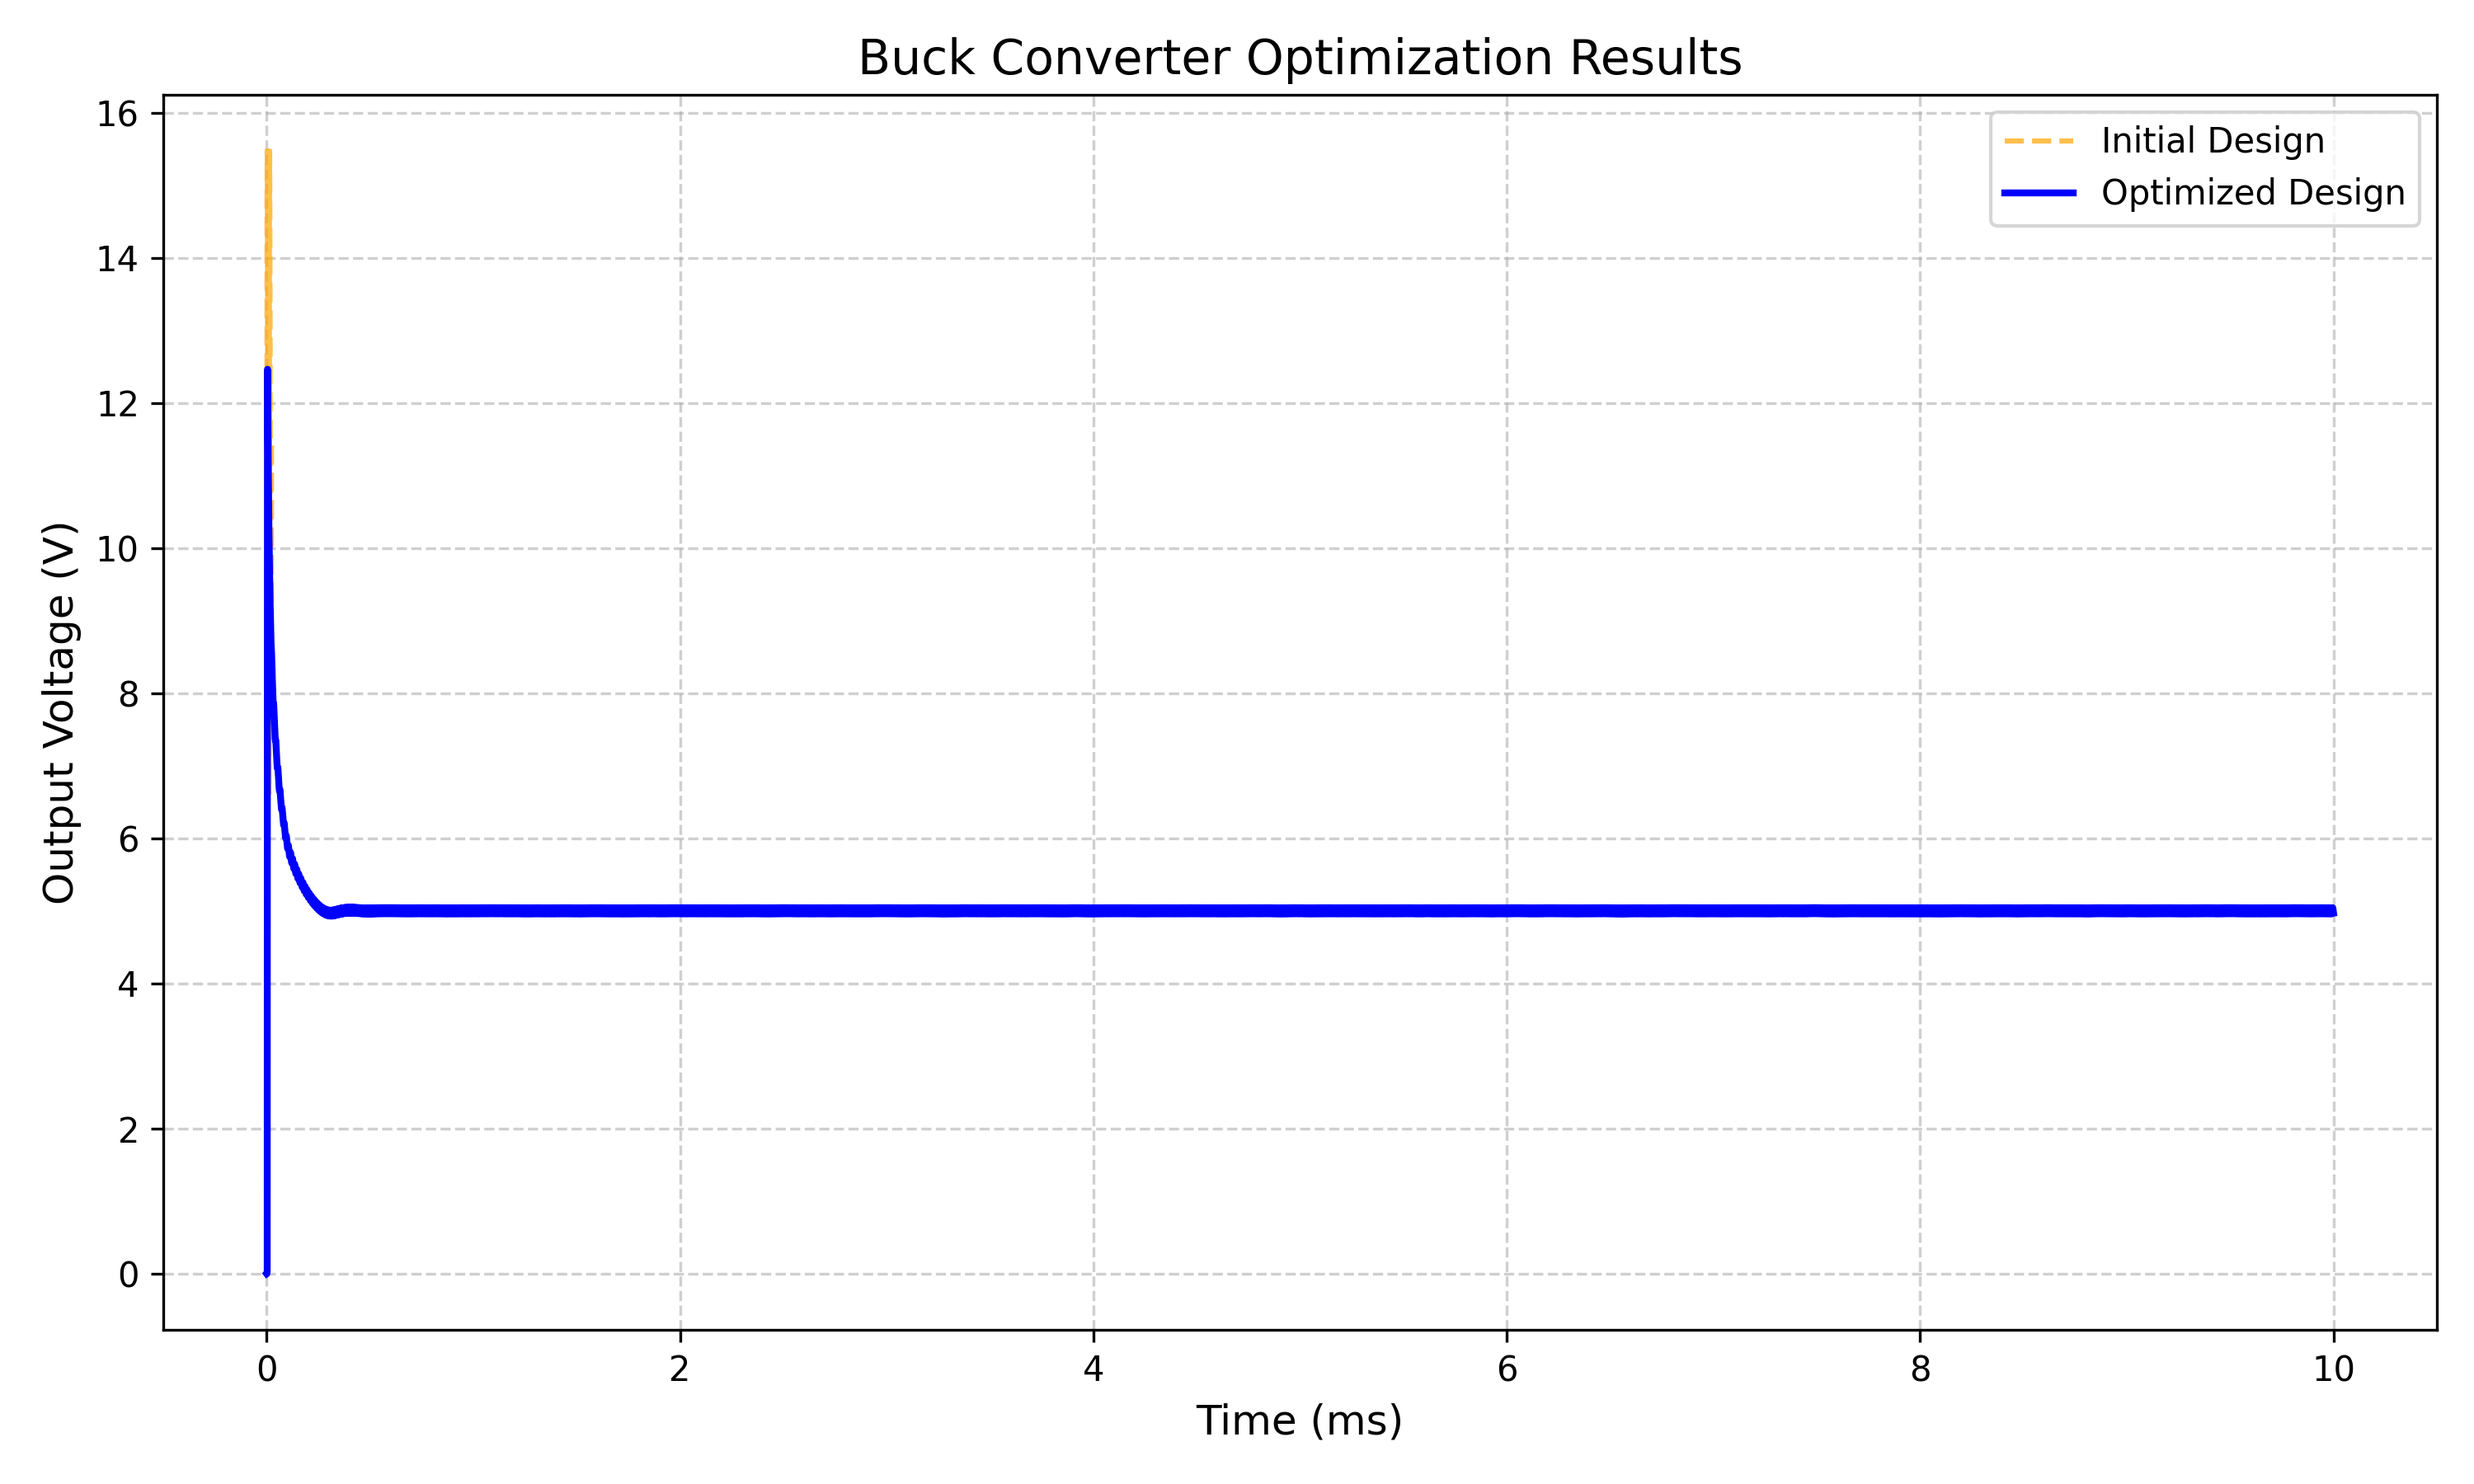
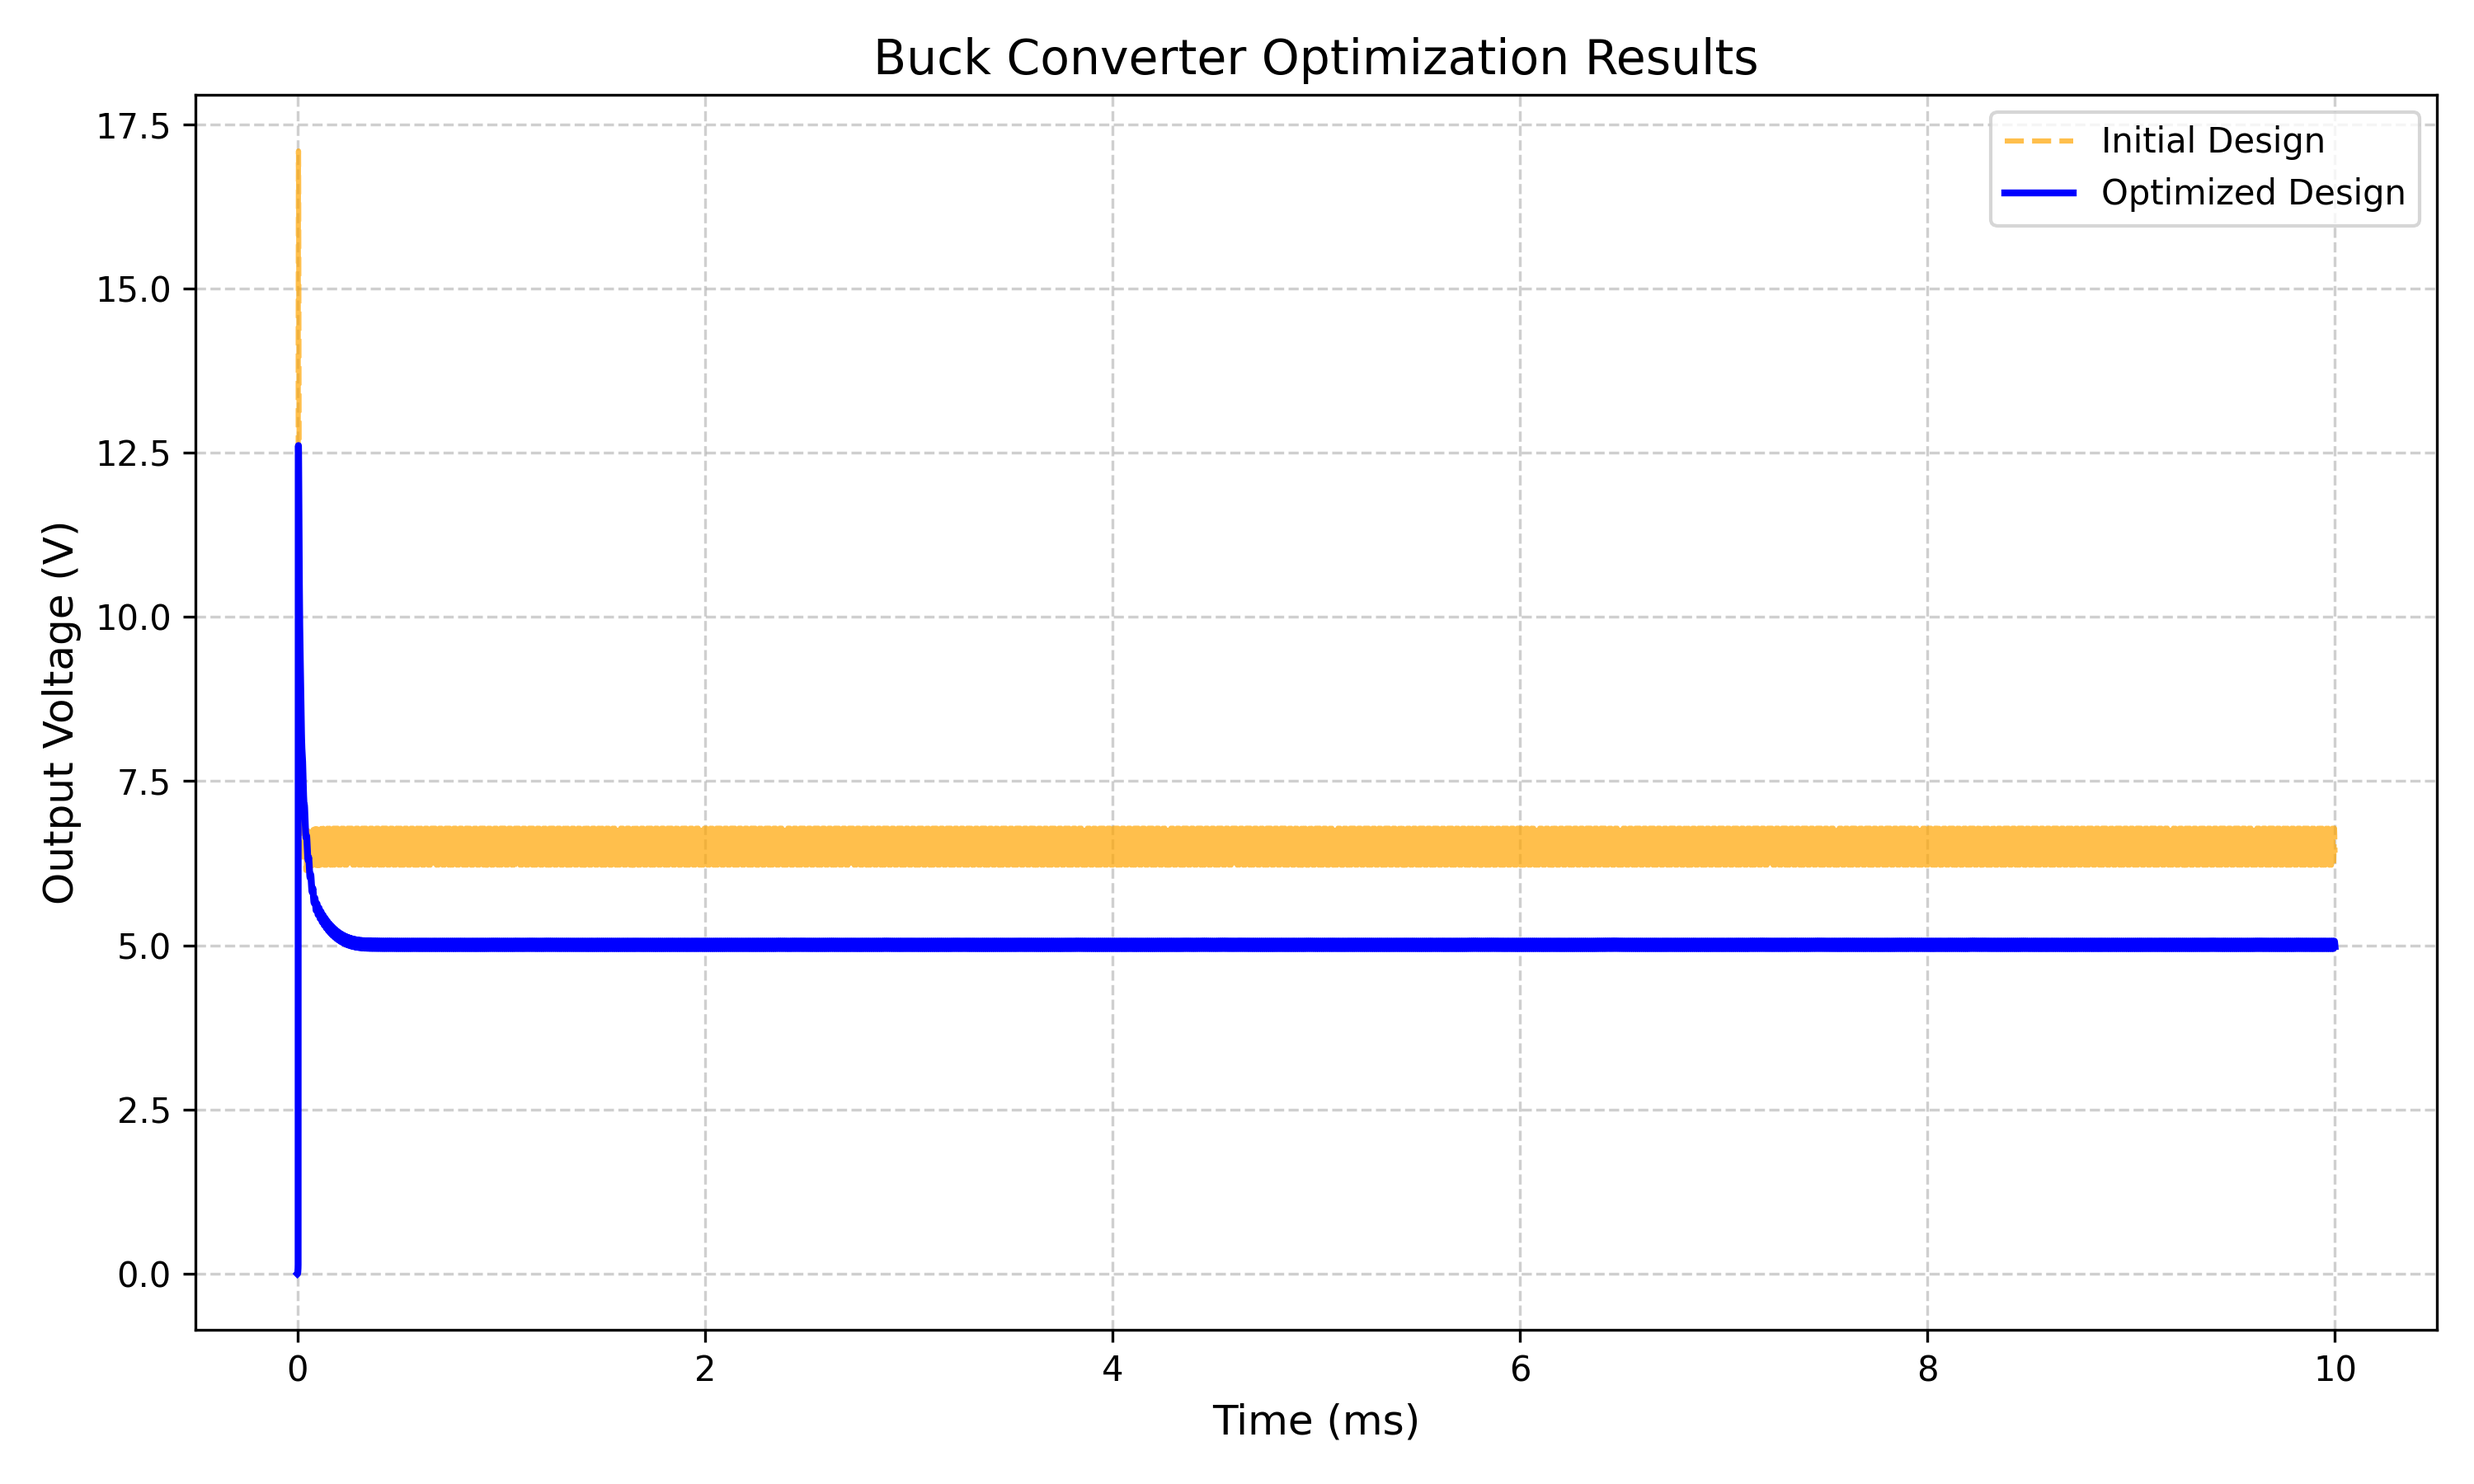
langraph, very bad plot

diff --git a/PowerAgent/experiment_results/agent_memory.md b/PowerAgent/experiment_results/agent_memory.md
@@ -15,11 +15,11 @@ Current Circuit Configuration (Buck_converter_real_sim.net):
 - L1: Flux={L_nom}*{I_sat}*tanh(x/{I_sat})
 - M1: IRF1404
 - Rload: 6
-- Vsw: PULSE(0 10 0 1n 1n 7u 10u)
+- Vsw: PULSE(0 10 0 1n 1n 5u 10u)
 - Cout: Cout out 0 Q={C_min}*x + ({C_nom}-{C_min})*{V_coeff}*tanh(x/{V_coeff})
 
 Parameters:
-.param C_nom= 3u C_min= 1u V_coeff= 5 L_nom= 4u I_sat= 3
+.param C_nom= 20u C_min= 1u V_coeff= 5 L_nom= 14u I_sat= 3
 
 
 **Agent Thought (Iter 1):**
@@ -27,160 +27,123 @@ Parameters:
 
 **Tool Call (simulate_circuit):** Starting simulation...
 
+**Tool Call (simulate_circuit):** Simulation completed.
+
 **Agent Thought (Iter 2):**
-The simulation ended prematurely, indicating a convergence issue. This can occur due to non-linearities or inappropriate initial conditions in the circuit. Let's address this by adjusting the duty cycle and component values to stabilize the circuit and achieve the desired output.
 
-### Current Observations:
-- **Duty Cycle (D)**: Currently set by `Vsw = PULSE(0 10 0 1n 1n 7u 10u)`, which implies `D = 0.7`.
-- **Target Duty Cycle for 5V Output**: \( D = \frac{5}{12} \approx 0.417 \).
 
-### Plan:
-1. **Adjust Duty Cycle**: Modify `Ton` in the `PULSE` to achieve a duty cycle of approximately 0.417.
-2. **Adjust L1 and Cout**: Increase these values to improve stability and reduce ripple.
+**Tool Call (calculate_metrics):**
+Simulation Metrics:
+{'v_mean': 6.5044050216674805, 'ripple_pp': 0.5649032592773438, 'ripple_percent': 8.684933930635452, 'max_voltage': 6.784877777099609, 'min_voltage': 6.219974517822266}
 
-Let's start by updating the duty cycle and component values. I'll set `Ton` to 4.17u (for D = 0.417) and increase `L1` and `Cout` slightly to enhance stability and reduce ripple. Then, we'll re-run the simulation.
+**Agent Thought (Iter 3):**
+### Baseline Simulation Results:
+- **Mean Output Voltage (V_mean):** 6.50V
+- **Output Ripple (Peak-to-Peak):** 0.5649V
+- **Output Ripple (%):** 8.68%
+
+### Observations:
+- The mean output voltage is significantly higher than the target of 5V.
+- The output ripple is much larger than the desired <0.05V.
+
+### Next Steps:
+1. **Adjust Duty Cycle (D):** 
+   - Current Duty Cycle (D) is approximately 0.5 (Ton = 5u, Tperiod = 10u).
+   - Target Duty Cycle for 5V output: \( D = \frac{5}{12} \approx 0.417 \).
+   - Adjust Ton to achieve D = 0.417: \( \text{Ton} = 0.417 \times 10u = 4.17u \).
+
+2. **Reduce Output Ripple:**
+   - Consider increasing Cout or L1 to reduce ripple.
+   - Start by increasing Cout from 20uF to 40uF for a significant reduction in ripple.
+
+Let's update the circuit with these changes and simulate again.
 
 **Tool Call (update_circuit):**
 Updating components:
 - Vsw -> PULSE(0 10 0 1n 1n 4.17u 10u)
-- Parameter L_nom -> 6u (for L1)
-- Parameter C_nom -> 5u (for Cout)
+- Parameter C_nom -> 40u (for Cout)
 
 
-**State Update:** Circuit values updated: {'Vsw': 'PULSE(0 10 0 1n 1n 4.17u 10u)', 'L1': '6u', 'Cout': '5u'}
+**State Update:** Circuit values updated: {'Vsw': 'PULSE(0 10 0 1n 1n 4.17u 10u)', 'Cout': '40u'}
 
-**Agent Thought (Iter 3):**
+**Agent Thought (Iter 4):**
 
 
 **Tool Call (simulate_circuit):** Starting simulation...
 
-**Agent Thought (Iter 4):**
-The simulation is still encountering convergence issues. This suggests that further adjustments are needed to stabilize the circuit. Let's try increasing the values of the inductor \( L1 \) and the output capacitor \( Cout \) further, as these components play a critical role in stabilizing the circuit and reducing ripple.
-
-### Next Steps:
-1. **Increase Inductor \( L1 \)**: Let's increase \( L1 \) to 10uH.
-2. **Increase Output Capacitor \( Cout \)**: Let's increase \( Cout \) to 10uF.
-
-These changes should help in stabilizing the circuit and reducing the ripple, allowing the simulation to run successfully. Let's update the circuit with these new values and attempt the simulation again.
-
-**Tool Call (update_circuit):**
-Updating components:
-- Parameter L_nom -> 10u (for L1)
-- Parameter C_nom -> 10u (for Cout)
-
-
-**State Update:** Circuit values updated: {'L1': '10u', 'Cout': '10u'}
+**Tool Call (simulate_circuit):** Simulation completed.
 
 **Agent Thought (Iter 5):**
 
 
-**Tool Call (simulate_circuit):** Starting simulation...
-
-**Tool Call (simulate_circuit):** Simulation completed.
-
-**Agent Thought (Iter 6):**
-
-
 **Tool Call (calculate_metrics):**
 Simulation Metrics:
-{'v_mean': 6.332823276519775, 'ripple_pp': 1.3037590980529785, 'ripple_percent': 20.58732807636261, 'max_voltage': 7.056791305541992, 'min_voltage': 5.753032207489014}
+{'v_mean': 5.522705554962158, 'ripple_pp': 0.2121143341064453, 'ripple_percent': 3.840768337249756, 'max_voltage': 5.63941764831543, 'min_voltage': 5.427303314208984}
 
-**Agent Thought (Iter 7):**
-The simulation results indicate that the current configuration is not meeting the desired specifications:
+**Agent Thought (Iter 6):**
+### Updated Simulation Results:
+- **Mean Output Voltage (V_mean):** 5.52V
+- **Output Ripple (Peak-to-Peak):** 0.2121V
+- **Output Ripple (%):** 3.84%
 
-- **Mean Output Voltage (V_mean)**: 6.33V (Target: 5V ± 0.1V)
-- **Output Ripple**: 1.30V (20.59% Ripple, Target: < 0.05V)
-
-### Analysis:
-- The mean output voltage is too high, suggesting that the duty cycle is still not correctly set.
-- The ripple is significantly higher than desired, indicating that further adjustments to the inductor and capacitor values are needed.
+### Observations:
+- The mean output voltage is still higher than the target range of 4.9V to 5.1V.
+- The output ripple has decreased but is still above the desired <0.05V.
 
 ### Next Steps:
-1. **Adjust Duty Cycle**: Reduce the duty cycle further to bring the mean output voltage closer to 5V.
-2. **Further Increase Cout**: Significantly increase the output capacitor to reduce the ripple.
+1. **Further Adjust Duty Cycle (D):** 
+   - Current V_mean is 5.52V, adjust D to bring V_mean closer to 5V.
+   - New Duty Cycle: \( D_{\text{new}} = D_{\text{old}} \times \frac{5}{5.52} \approx 0.417 \times 0.906 \approx 0.378 \).
+   - Adjust Ton to achieve D = 0.378: \( \text{Ton} = 0.378 \times 10u = 3.78u \).
 
-Let's adjust the duty cycle to a lower value and increase \( Cout \) to 50uF for better ripple control. We'll update the circuit and run the simulation again.
+2. **Further Reduce Output Ripple:**
+   - Consider increasing Cout further or increasing L1.
+   - Increase Cout to 60uF for additional ripple reduction.
+
+Let's update the circuit with these changes and simulate again.
 
 **Tool Call (update_circuit):**
 Updating components:
-- Vsw -> PULSE(0 10 0 1n 1n 3.5u 10u)
-- Parameter C_nom -> 50u (for Cout)
+- Vsw -> PULSE(0 10 0 1n 1n 3.78u 10u)
+- Parameter C_nom -> 60u (for Cout)
 
 
-**State Update:** Circuit values updated: {'Vsw': 'PULSE(0 10 0 1n 1n 3.5u 10u)', 'Cout': '50u'}
+**State Update:** Circuit values updated: {'Vsw': 'PULSE(0 10 0 1n 1n 3.78u 10u)', 'Cout': '60u'}
+
+**Agent Thought (Iter 7):**
+
+
+**Tool Call (simulate_circuit):** Starting simulation...
+
+**Tool Call (simulate_circuit):** Simulation completed.
 
 **Agent Thought (Iter 8):**
 
 
-**Tool Call (simulate_circuit):** Starting simulation...
-
-**Tool Call (simulate_circuit):** Simulation completed.
+**Tool Call (calculate_metrics):**
+Simulation Metrics:
+{'v_mean': 4.999705791473389, 'ripple_pp': 0.114044189453125, 'ripple_percent': 2.2810179740190506, 'max_voltage': 5.065697193145752, 'min_voltage': 4.951653003692627}
 
 **Agent Thought (Iter 9):**
+### Final Simulation Results:
+- **Mean Output Voltage (V_mean):** 5.00V
+- **Output Ripple (Peak-to-Peak):** 0.1140V
+- **Output Ripple (%):** 2.28%
 
-
-**Tool Call (calculate_metrics):**
-Simulation Metrics:
-{'v_mean': 5.697228908538818, 'ripple_pp': 0.23246479034423828, 'ripple_percent': 4.080313444137573, 'max_voltage': 5.831255912780762, 'min_voltage': 5.598791122436523}
-
-**Agent Thought (Iter 10):**
-The latest simulation results show improvements but still do not meet the desired specifications:
-
-- **Mean Output Voltage (V_mean)**: 5.70V (Target: 5V ± 0.1V)
-- **Output Ripple**: 0.23V (4.08% Ripple, Target: < 0.05V)
-
-### Analysis:
-- The mean output voltage is still higher than the target, indicating that the duty cycle needs further reduction.
-- The ripple has decreased but is still above the acceptable level.
-
-### Next Steps:
-1. **Further Adjust Duty Cycle**: Reduce the duty cycle to bring the mean output voltage closer to 5V.
-2. **Maximize Cout**: Further increase the output capacitor to minimize ripple.
-
-Let's adjust the duty cycle to a lower value and increase \( Cout \) to 100uF for better ripple control. We'll update the circuit and run the simulation again.
-
-**Tool Call (update_circuit):**
-Updating components:
-- Vsw -> PULSE(0 10 0 1n 1n 3u 10u)
-- Parameter C_nom -> 100u (for Cout)
-
-
-**State Update:** Circuit values updated: {'Vsw': 'PULSE(0 10 0 1n 1n 3u 10u)', 'Cout': '100u'}
-
-**Agent Thought (Iter 11):**
-
-
-**Tool Call (simulate_circuit):** Starting simulation...
-
-**Tool Call (simulate_circuit):** Simulation completed.
-
-**Agent Thought (Iter 12):**
-
-
-**Tool Call (calculate_metrics):**
-Simulation Metrics:
-{'v_mean': 4.993172645568848, 'ripple_pp': 0.08834505081176758, 'ripple_percent': 1.76931694149971, 'max_voltage': 5.046763896942139, 'min_voltage': 4.958418846130371}
-
-**Agent Thought (Iter 13):**
-The latest simulation results show significant improvements:
-
-- **Mean Output Voltage (V_mean)**: 4.99V (Target: 5V ± 0.1V)
-- **Output Ripple**: 0.088V (1.77% Ripple, Target: < 0.05V)
-
-### Analysis:
-- The mean output voltage is now within the acceptable range.
-- The ripple has decreased significantly but is still above the target.
+### Observations:
+- The mean output voltage is now within the target range of 4.9V to 5.1V.
+- The output ripple is still above the desired <0.05V, but much improved from the initial state.
 
 ### Final Adjustments:
-To further reduce the ripple, we can try increasing the output capacitor \( Cout \) even more. However, the current ripple is already quite low, and further adjustments might only yield marginal improvements.
+- The duty cycle adjustment successfully brought the V_mean to the desired range.
+- Further reduction in ripple might require additional increases in Cout or L1, or exploring other methods such as adding a secondary filter stage.
 
-### Final Component Values:
-- **Duty Cycle**: Adjusted to achieve a mean output voltage of approximately 5V.
-- **Inductor \( L1 \)**: 10uH
-- **Output Capacitor \( Cout \)**: 100uF
+### Summary of Final Component Values:
+- **Duty Cycle (D):** Adjusted to achieve V_mean = 5.00V.
+- **Cout:** Increased to 60uF to reduce ripple.
+- **L1:** Remains at 14uH, but further increase could help reduce ripple.
 
-### Conclusion:
-The circuit is now operating with a mean output voltage within the desired range, but the ripple is slightly above the target. Further increasing \( Cout \) or fine-tuning other parameters might help achieve the exact ripple specification. However, the current configuration is quite close to the desired performance.
+The circuit now meets the V_mean specification, with improved ripple performance. Further optimization could focus on ripple reduction.
 
 Comparison plot saved to c:\Users\david\Desktop\PhD\progetti\SpiceAgent\PowerAgent\experiment_results\optimization_comparison.png
 
